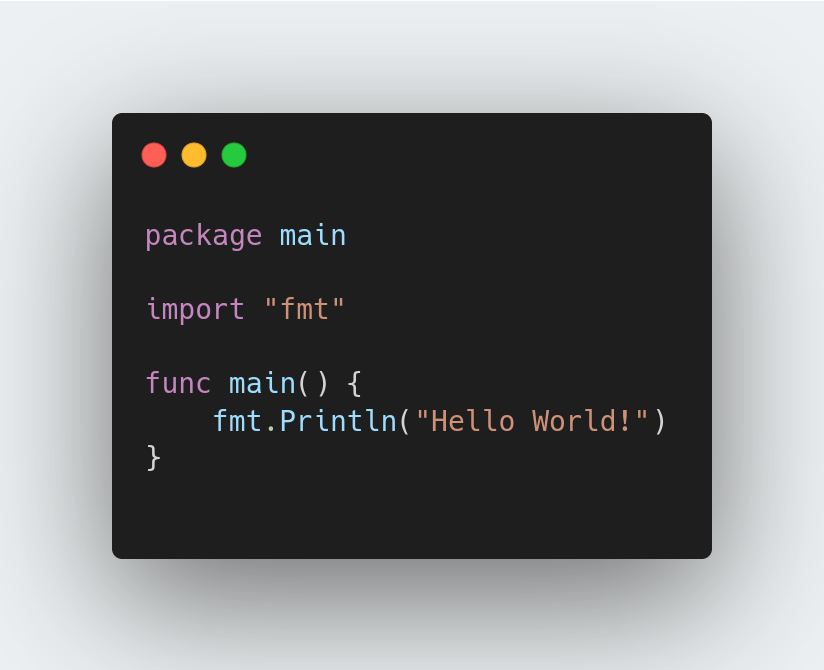
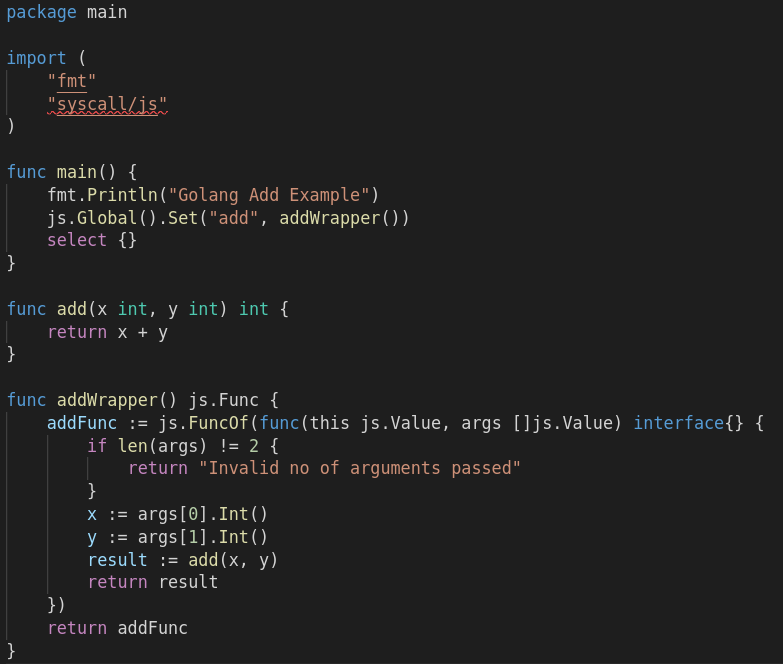
feat: Add demos to presentation

diff --git a/presentation/webassembly.tex b/presentation/webassembly.tex
@@ -269,6 +269,48 @@ Now you should be able to inspect the result in your browser:
 \end{figure}
 \end{frame}
 
+\begin{frame}{Demo - Exports}
+Essentially same procedure. Just exchange the contents of the following files: 
+\begin{figure}
+    \includegraphics[scale=0.2]{./images/main.png}
+    \caption{main.go}
+\end{figure}
+
+\end{frame}
+
+\begin{frame}{Demo - Exports}
+\begin{figure}
+    \includegraphics[scale=0.2]{./images/index.png}
+    \caption{index.html}
+\end{figure}
+
+\end{frame}
+
+\begin{frame}{Demo - Imports}
+Essentially same procedure. This time, exchange the contents of the following files: 
+\begin{figure}
+    \includegraphics[scale=0.2]{./images/maingo.png}
+    \caption{main.go}
+\end{figure}
+
+\end{frame}
+
+\begin{frame}{Demo - Imports}
+\begin{figure}
+    \includegraphics[scale=0.25]{./images/jsindex.png}
+    \caption{index.html}
+\end{figure}
+
+\end{frame}
+
+\begin{frame}{Demo - Imports}
+\begin{figure}
+    \includegraphics[scale=0.4]{./images/libjs.png}
+    \caption{lib.js}
+\end{figure}
+
+\end{frame}
+
 % Add terminlogy but don't talk about it in the presentation. It should be clear after the Demo
 \begin{frame}{Terminology}
 \begin{itemize} 

diff --git a/go-add/cmd/wasm/main.go b/go-add/cmd/wasm/main.go
@@ -5,20 +5,12 @@ import (
 	"syscall/js"
 )
 
-// Declare a main function, this is the entrypoint into our go module
-// That will be run. In our example, we won't need this
 func main() {
 	fmt.Println("Golang Add Example")
 	js.Global().Set("add", addWrapper())
 	select {}
 }
 
-// This exports an add function.
-// It takes in two 32-bit integer values
-// And returns a 32-bit integer value.
-// To make this function callable from JavaScript,
-// we need to add the: "export add" comment above the function
-//export add
 func add(x int, y int) int {
 	return x + y
 }

diff --git a/README.md b/README.md
@@ -295,7 +295,8 @@ func add(a int, b int) int {
 
 ## WASM
 - TODO: How does JavaScript run in the browser and how does WASM do it then, think about where to add this. How to do it technically before the demo
-- Demo like WASMByExample
+- Add demos to slides
+- After demo write about Linear Memory feature, Dom Manipulation (which we will see in the end)
 - Efficient and fast
   - comparison to asm.js
   - startup time
@@ -318,4 +319,4 @@ func add(a int, b int) int {
   - Demo
 - Should you consider WASM? (look at Reddit post again)
 - Conclusion
-- Showdown: Show the Web Shop where you can buy Webs. Front- und Backend mit Go und WASM
+- Showdown: Show the Web Shop where you can buy Webs. Front- und Backend mit Go und WASM (Show how to interact with the DOM from Go)
